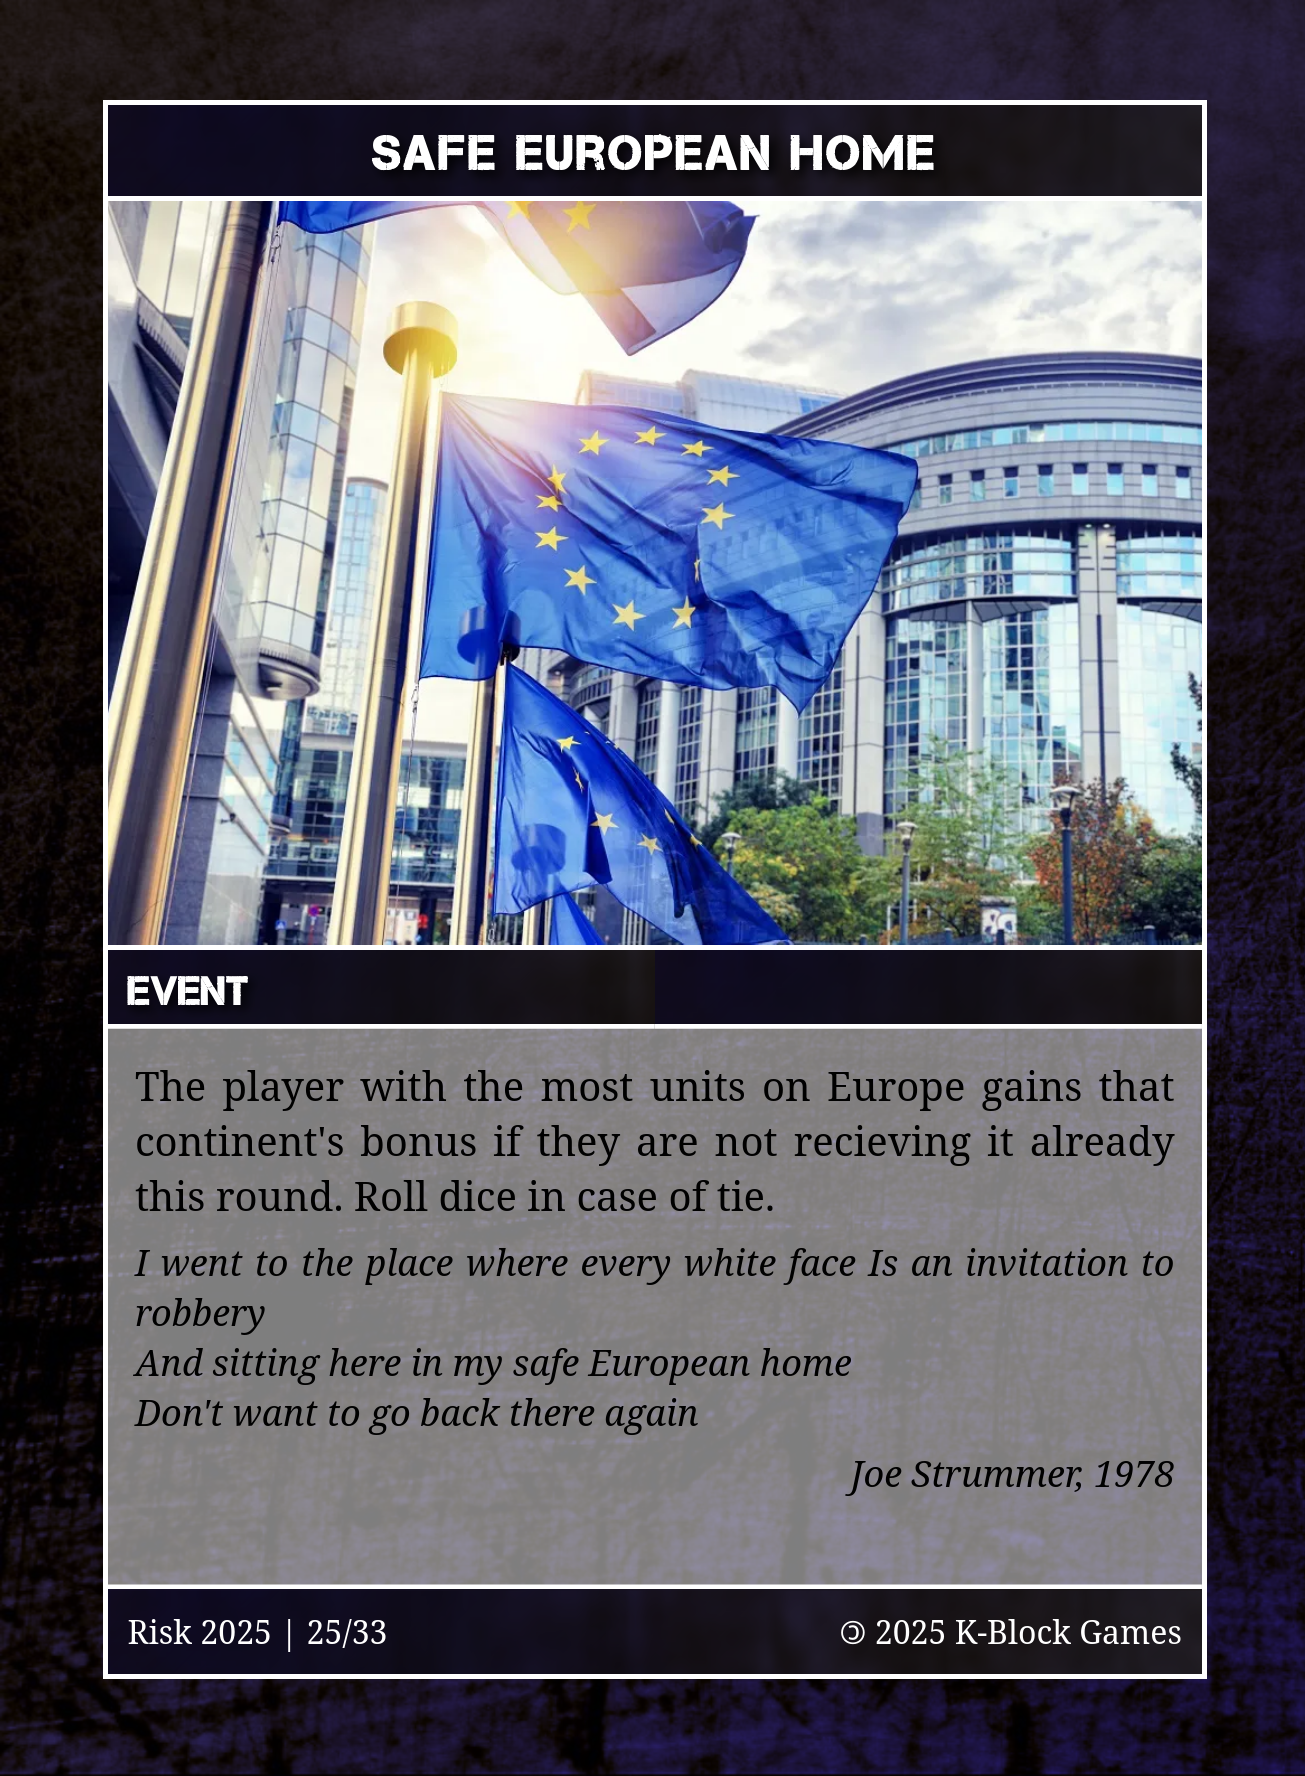
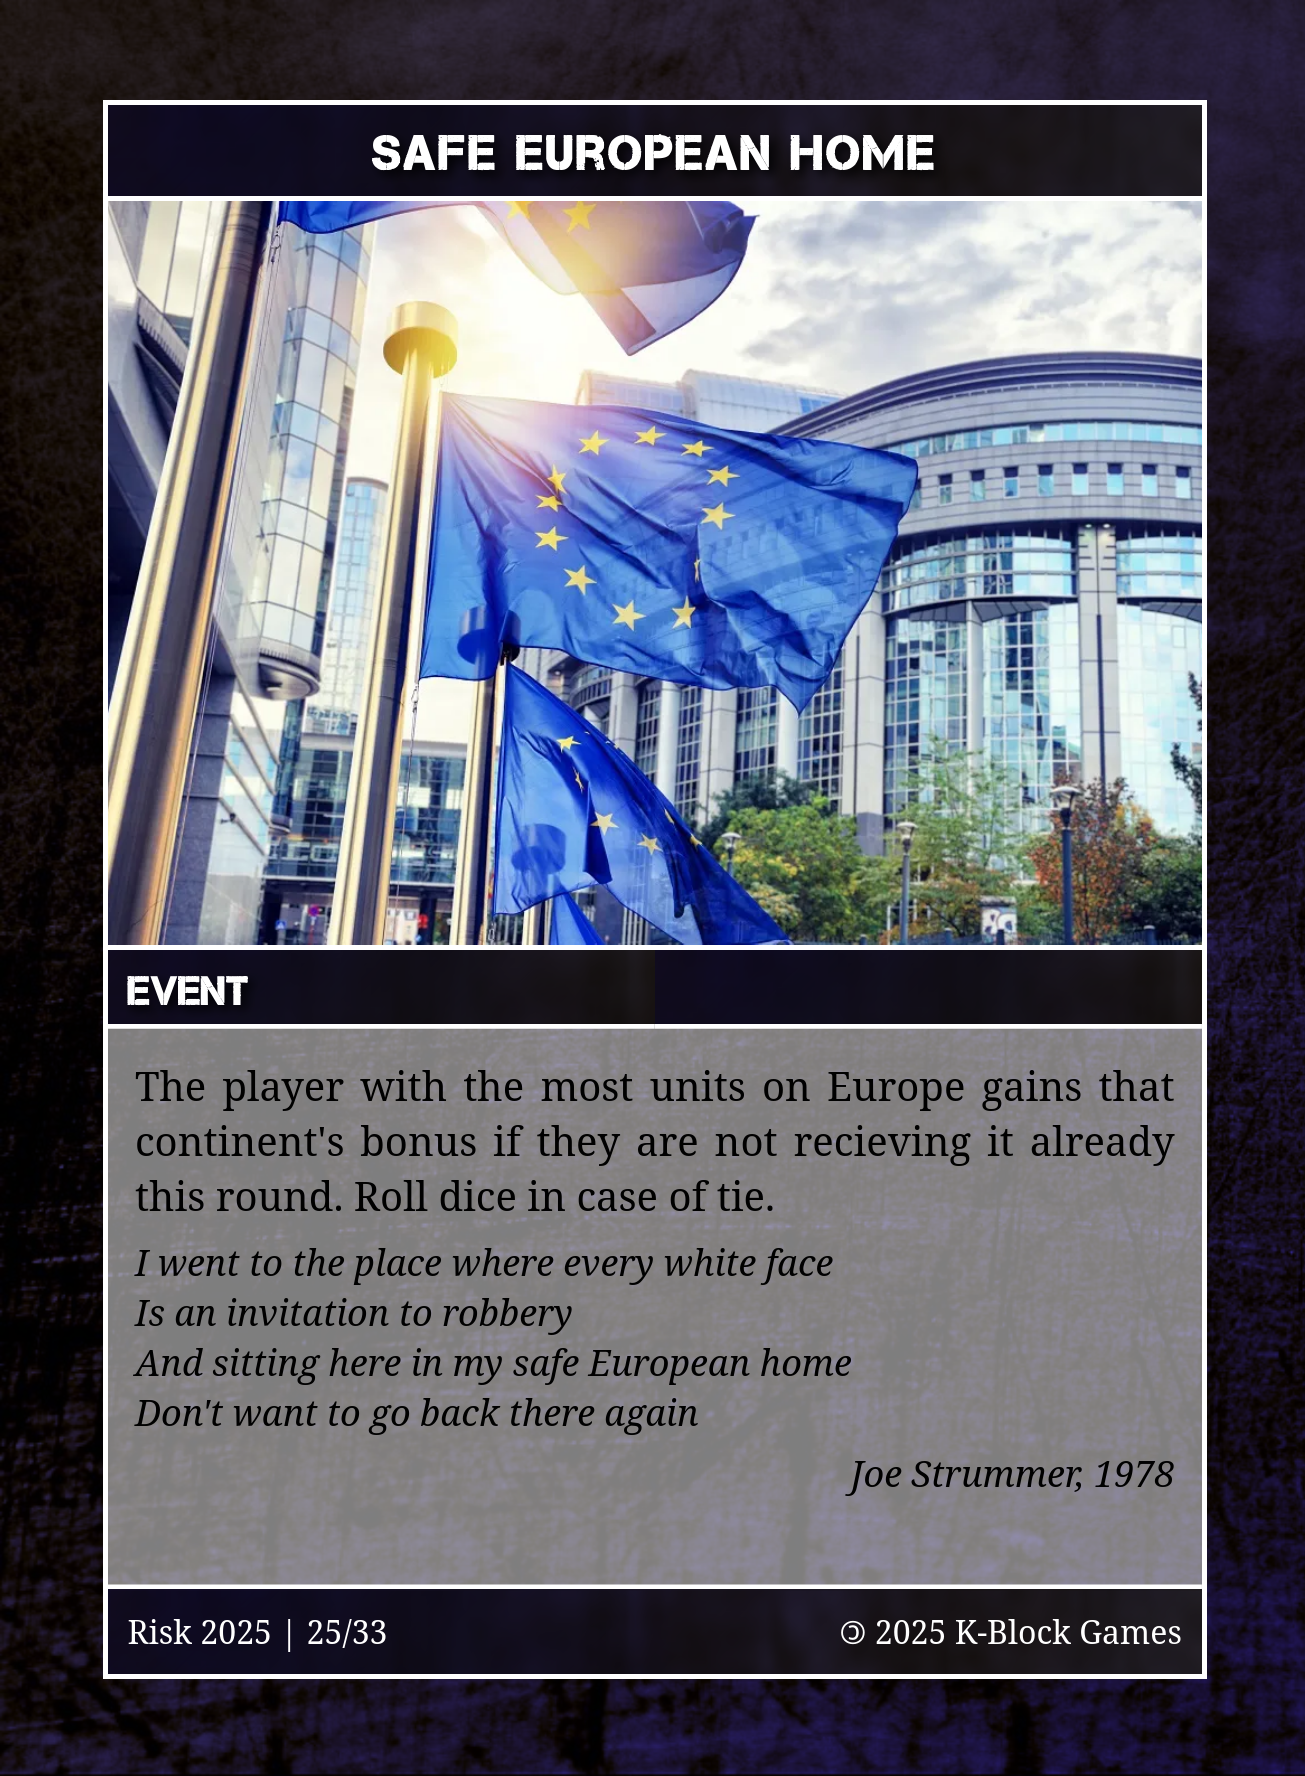
fix: safe european home quote text

Changed region(s): [[0.1226, 0.6813, 0.4598, 0.7432], [0.4904, 0.6813, 0.6437, 0.7432]]

diff --git a/games/risk_2025/cards/event_7.html b/games/risk_2025/cards/event_7.html
@@ -19,7 +19,7 @@
         </div>
         <div class="card-body">
           <div class="card-effect">The player with the most units on Europe gains that continent's bonus if they are not recieving it already this round. Roll dice in case of tie.</div>
-          <div class="card-quote">I went to the place where every white face Is an invitation to robbery<br>And sitting here in my safe European home<br>Don't want to go back there again</div>
+          <div class="card-quote">I went to the place where every white face<br>Is an invitation to robbery<br>And sitting here in my safe European home<br>Don't want to go back there again</div>
           <div class="card-source">Joe Strummer, 1978</div>
         </div>
         <div class="card-footer">
